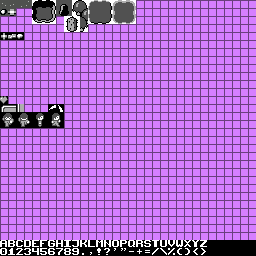
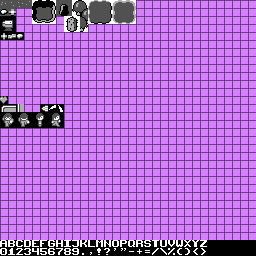
13 Anvil 4:04:09

Changed region(s): [[0.0, 0.0312, 0.0625, 0.125], [0.1562, 0.4062, 0.1875, 0.4375]]

diff --git a/src/com/w1ll1x/ld22/entity/Player.java b/src/com/w1ll1x/ld22/entity/Player.java
@@ -5,6 +5,8 @@ import java.util.List;
 import com.w1ll1x.ld22.InputHandler;
 import com.w1ll1x.ld22.gfx.Color;
 import com.w1ll1x.ld22.gfx.Screen;
+import com.w1ll1x.ld22.level.Level;
+import com.w1ll1x.ld22.level.tile.Tile;
 
 public class Player extends Mob {
 
@@ -111,8 +113,14 @@ public class Player extends Mob {
 
 		int xo = x - 8;
 		int yo = y - 11;
-		if (!inWater()) {
+		if (inWater()) {
 			yo += 4;
+			int waterColor = Color.get(-1, -1, 115, 335);
+			if (tickTime / 8 % 2 == 0) {
+				waterColor = Color.get(-1, 335, 5, 115);
+			}
+			screen.render(xo + 0, yo + 3, 5 + 13 * 32, waterColor, 0);
+			screen.render(xo + 8, yo + 3, 5 + 13 * 32, waterColor, 1);
 		}
 
 		if (attackTime > 0 && attackDir == 1) {
@@ -129,7 +137,7 @@ public class Player extends Mob {
 		if (!inWater()) {
 			screen.render(xo + 8 * flip2, yo + 8, xt + (yt + 1) * 32, col, flip2);
 			screen.render(xo + 8 - 8 * flip2, yo + 8, xt + 1 + (yt + 1) * 32, col, flip2);
-		}
+		} 
 		if (attackTime > 0 && attackDir == 2) {
 			screen.render(xo - 4, yo, 7 + 13 * 32, Color.get(-1, 555, 555, 555), 1);
 			screen.render(xo - 4, yo + 8, 7 + 13 * 32, Color.get(-1, 555, 555, 555), 3);
@@ -151,4 +159,18 @@ public class Player extends Mob {
 	public boolean canSwim() {
 		return true;
 	}
+	
+	public void findStartPos(Level level) {
+		while (true) {
+			int x = random.nextInt(level.w);
+			int y = random.nextInt(level.h);
+			if (level.getTile(x, y) == Tile.grass && level.getTile(x - 1, y) == Tile.grass ) {
+				this.x = x * 16 + 8;
+				this.y = y * 16 + 8;
+				level.add(new Anvil(this.x - 16, this.y));
+				return;
+			}
+		}
+	}
+	
 }

diff --git a/src/com/w1ll1x/ld22/entity/Anvil.java b/src/com/w1ll1x/ld22/entity/Anvil.java
@@ -1,0 +1,49 @@
+package com.w1ll1x.ld22.entity;
+
+import com.w1ll1x.ld22.gfx.Color;
+import com.w1ll1x.ld22.gfx.Screen;
+
+public class Anvil extends Entity {
+	private int pushTime = 0;
+	private int pushDir = -1;
+	
+	public Anvil(int x, int y) {
+		this.x = x;
+		this.y = y;
+		xr = 3;
+		yr = 2;
+	}
+	
+	public void tick() {
+		if (pushDir == 0) 
+			move(0, +1);
+		if (pushDir == 1) 
+			move(0, -1);
+		if (pushDir == 2) 
+			move(-1, 0);
+		if (pushDir == 3) 
+			move(+1, 0);
+		pushDir = -1;
+		if (pushTime > 0) 
+			pushTime--;
+	}
+	
+	public void render(Screen screen) {
+		int col = Color.get(-1, 000, 111, 222);
+		screen.render(x - 8, y - 8, 0 + 2 * 32, col, 0);
+		screen.render(x - 0, y - 8, 1 + 2 * 32, col, 0);
+		screen.render(x - 8, y - 0, 0 + 3 * 32, col, 0);
+		screen.render(x - 0, y - 0, 1 + 3 * 32, col, 0);
+	}
+	
+	public boolean blocks(Entity e) {
+		return true;
+	}
+	
+	protected void touchedBy(Entity entity) {
+		if (entity instanceof Player && pushTime == 0) {
+			pushDir = ((Player)entity).dir;
+			pushTime = 10;
+		}
+	}
+}

diff --git a/src/com/w1ll1x/ld22/Game.java b/src/com/w1ll1x/ld22/Game.java
@@ -83,8 +83,7 @@ public class Game extends Canvas implements Runnable {
 			}
 		}
 		try {
-			screen = new Screen(WIDTH, HEIGHT,
-					new SpriteSheet(ImageIO.read(Game.class.getResourceAsStream("/icons2.png"))));
+			screen = new Screen(WIDTH, HEIGHT, new SpriteSheet(ImageIO.read(Game.class.getResourceAsStream("/icons2.png"))));
 		} catch (IOException e) {
 			e.printStackTrace();
 		}
@@ -150,7 +149,7 @@ public class Game extends Canvas implements Runnable {
 		}
 
 		int xScroll = player.x - screen.w / 2;
-		int yScroll = player.y - screen.h / 2;
+		int yScroll = player.y - (screen.h - 8) / 2;
 		if (xScroll < 0)
 			xScroll = 0;
 		if (yScroll < 0)
@@ -192,7 +191,7 @@ public class Game extends Canvas implements Runnable {
 				screen.render(x * 8, screen.h - 16 + y * 8, 0 + 12 * 32, Color.get(333, 333, 333, 333), 0);
 			}
 		}
-			for (int i = 0; i < 10; i++) {
+		for (int i = 0; i < 10; i++) {
 			if (i < player.health)
 				screen.render(i * 8, screen.h - 16, 0 + 12 * 32, Color.get(333, 200, 500, 533), 0);
 			else

diff --git a/src/com/w1ll1x/ld22/entity/Mob.java b/src/com/w1ll1x/ld22/entity/Mob.java
@@ -13,6 +13,7 @@ public class Mob extends Entity {
 	protected int xKnockback, yKnockback;
 	public int health = 10;
 	public int swimTimer = 0;
+	protected int tickTime = 0;
 
 	public Mob() {
 		x = y = 8;
@@ -21,6 +22,7 @@ public class Mob extends Entity {
 	}
 
 	public void tick() {
+		tickTime++;
 		if (health <= 0) {
 			remove();
 		}
@@ -30,7 +32,7 @@ public class Mob extends Entity {
 
 	public boolean move(int xa, int ya) {
 		if (inWater()) {
-			if (swimTimer++ / 4 % 3 == 0)
+			if (swimTimer++ % 2 == 0)
 				return true;
 		}
 		if (xKnockback < 0) {
